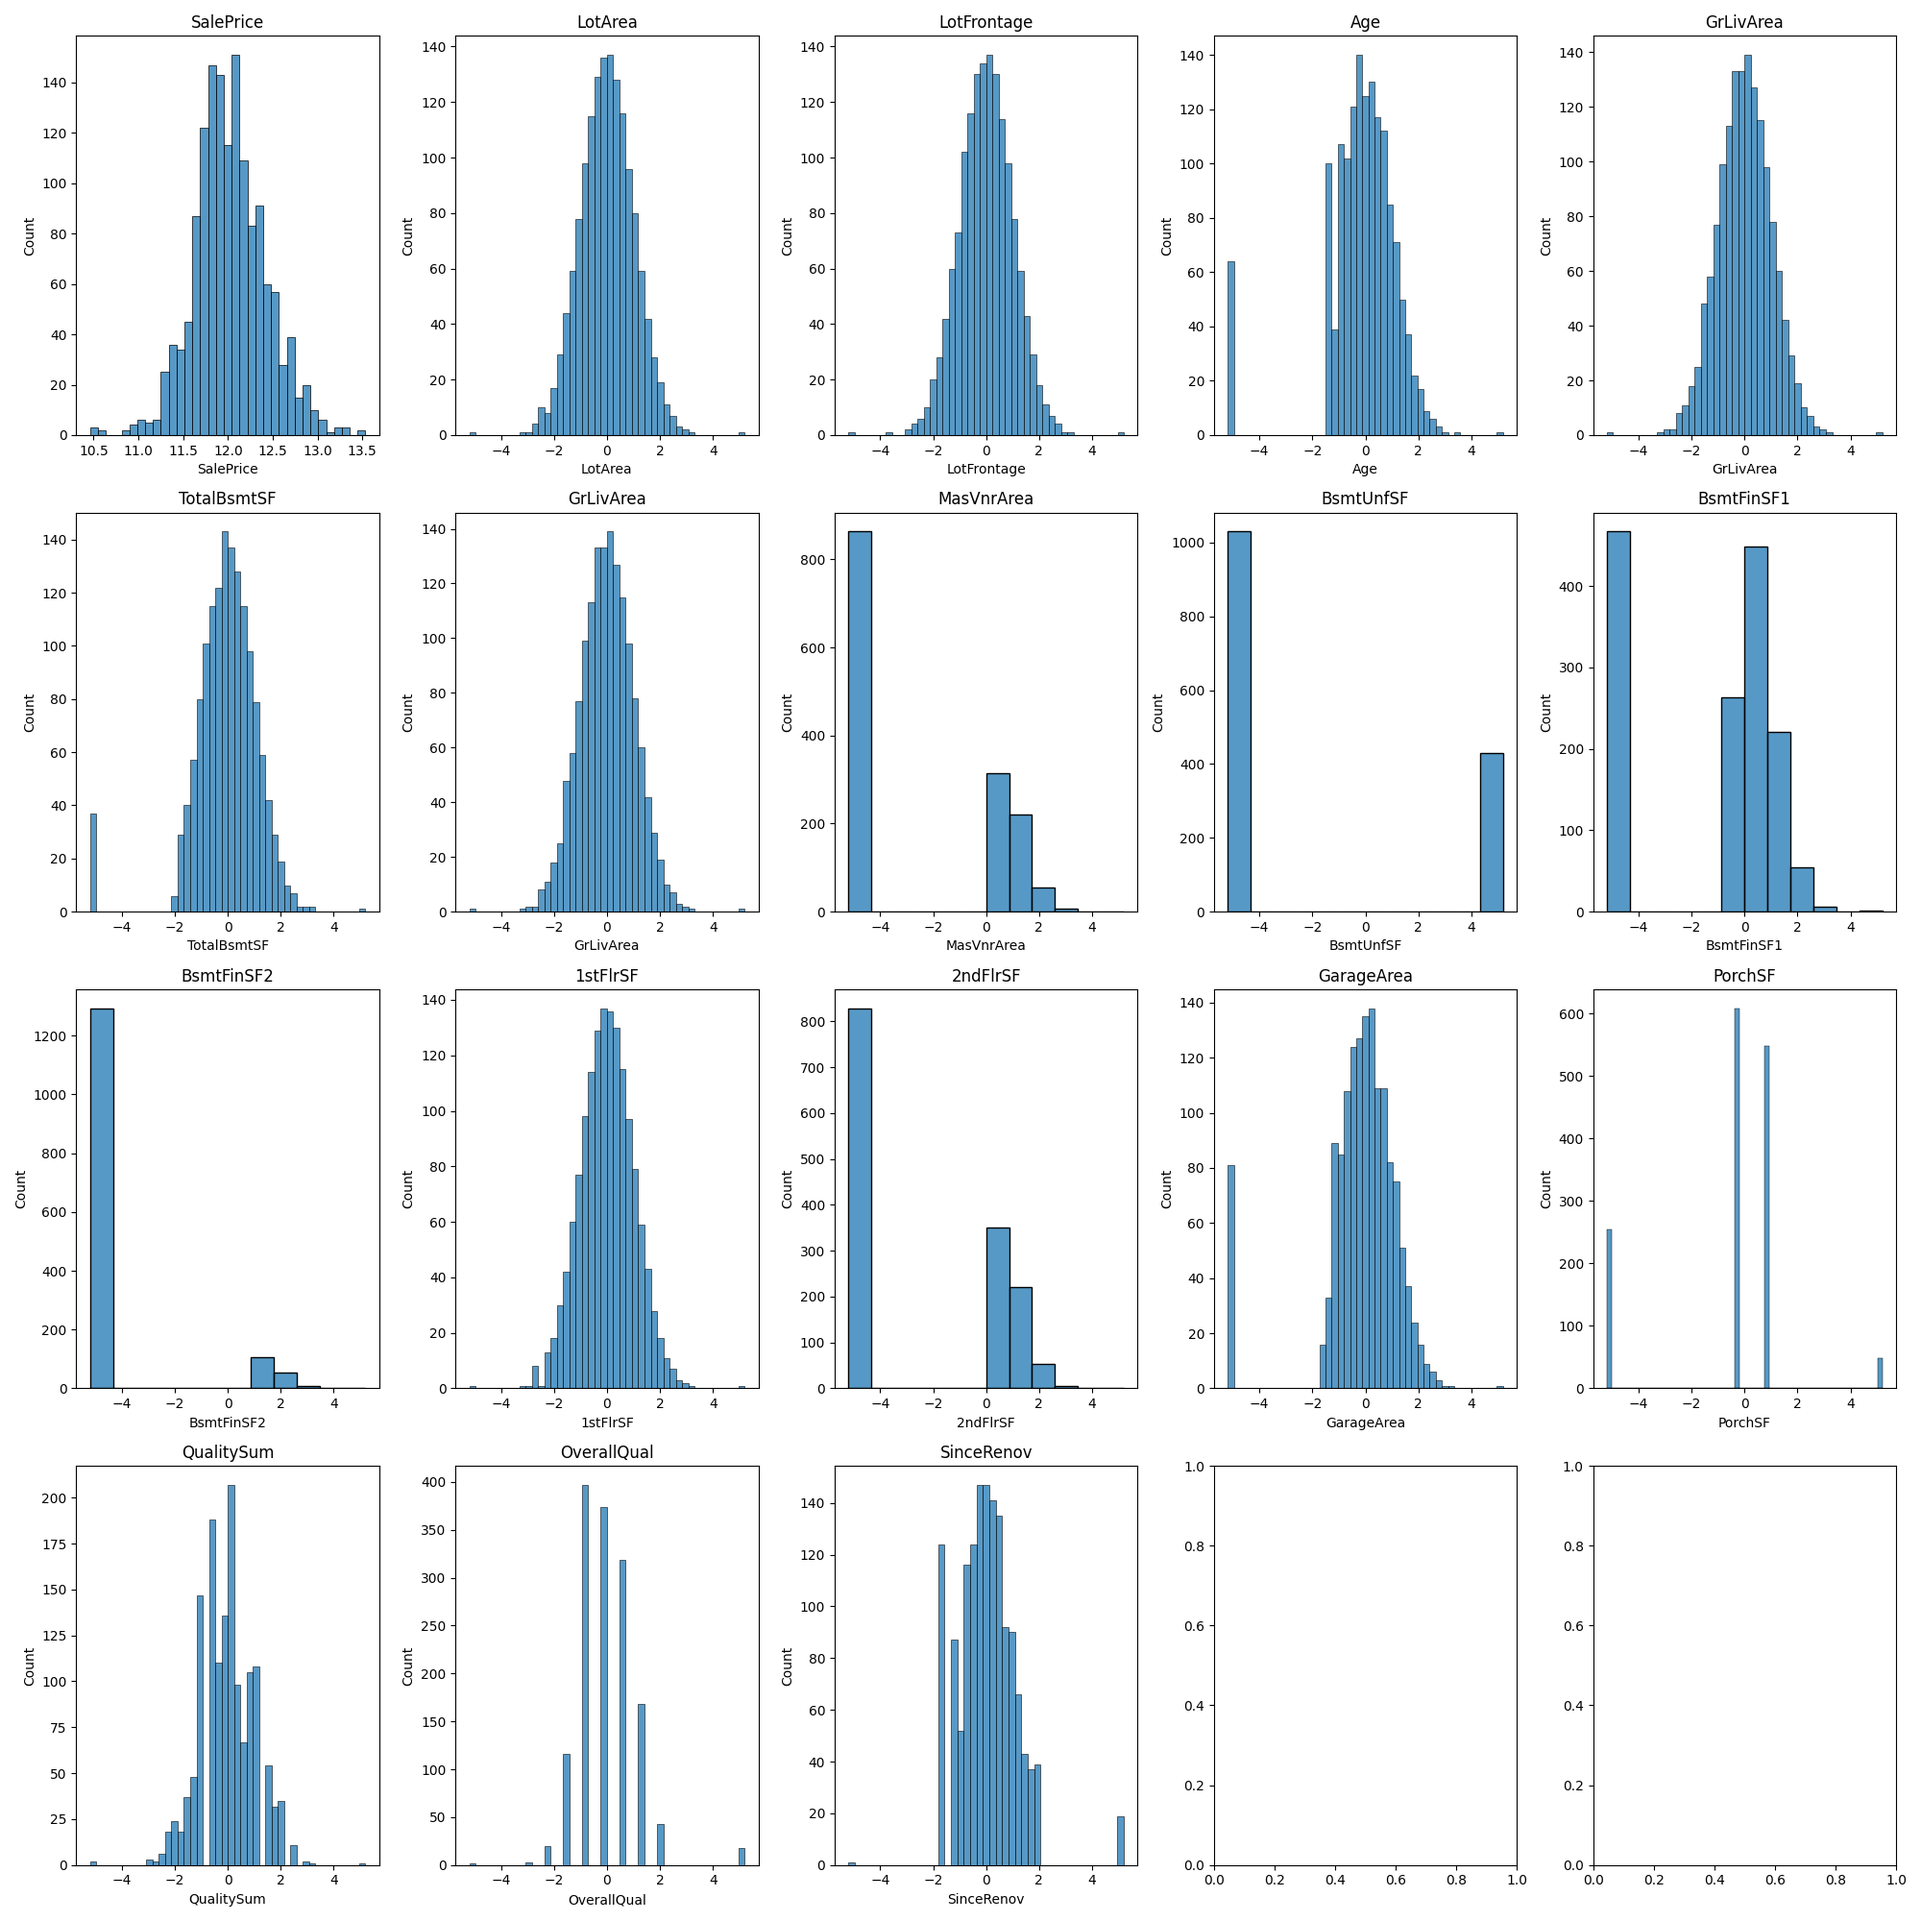
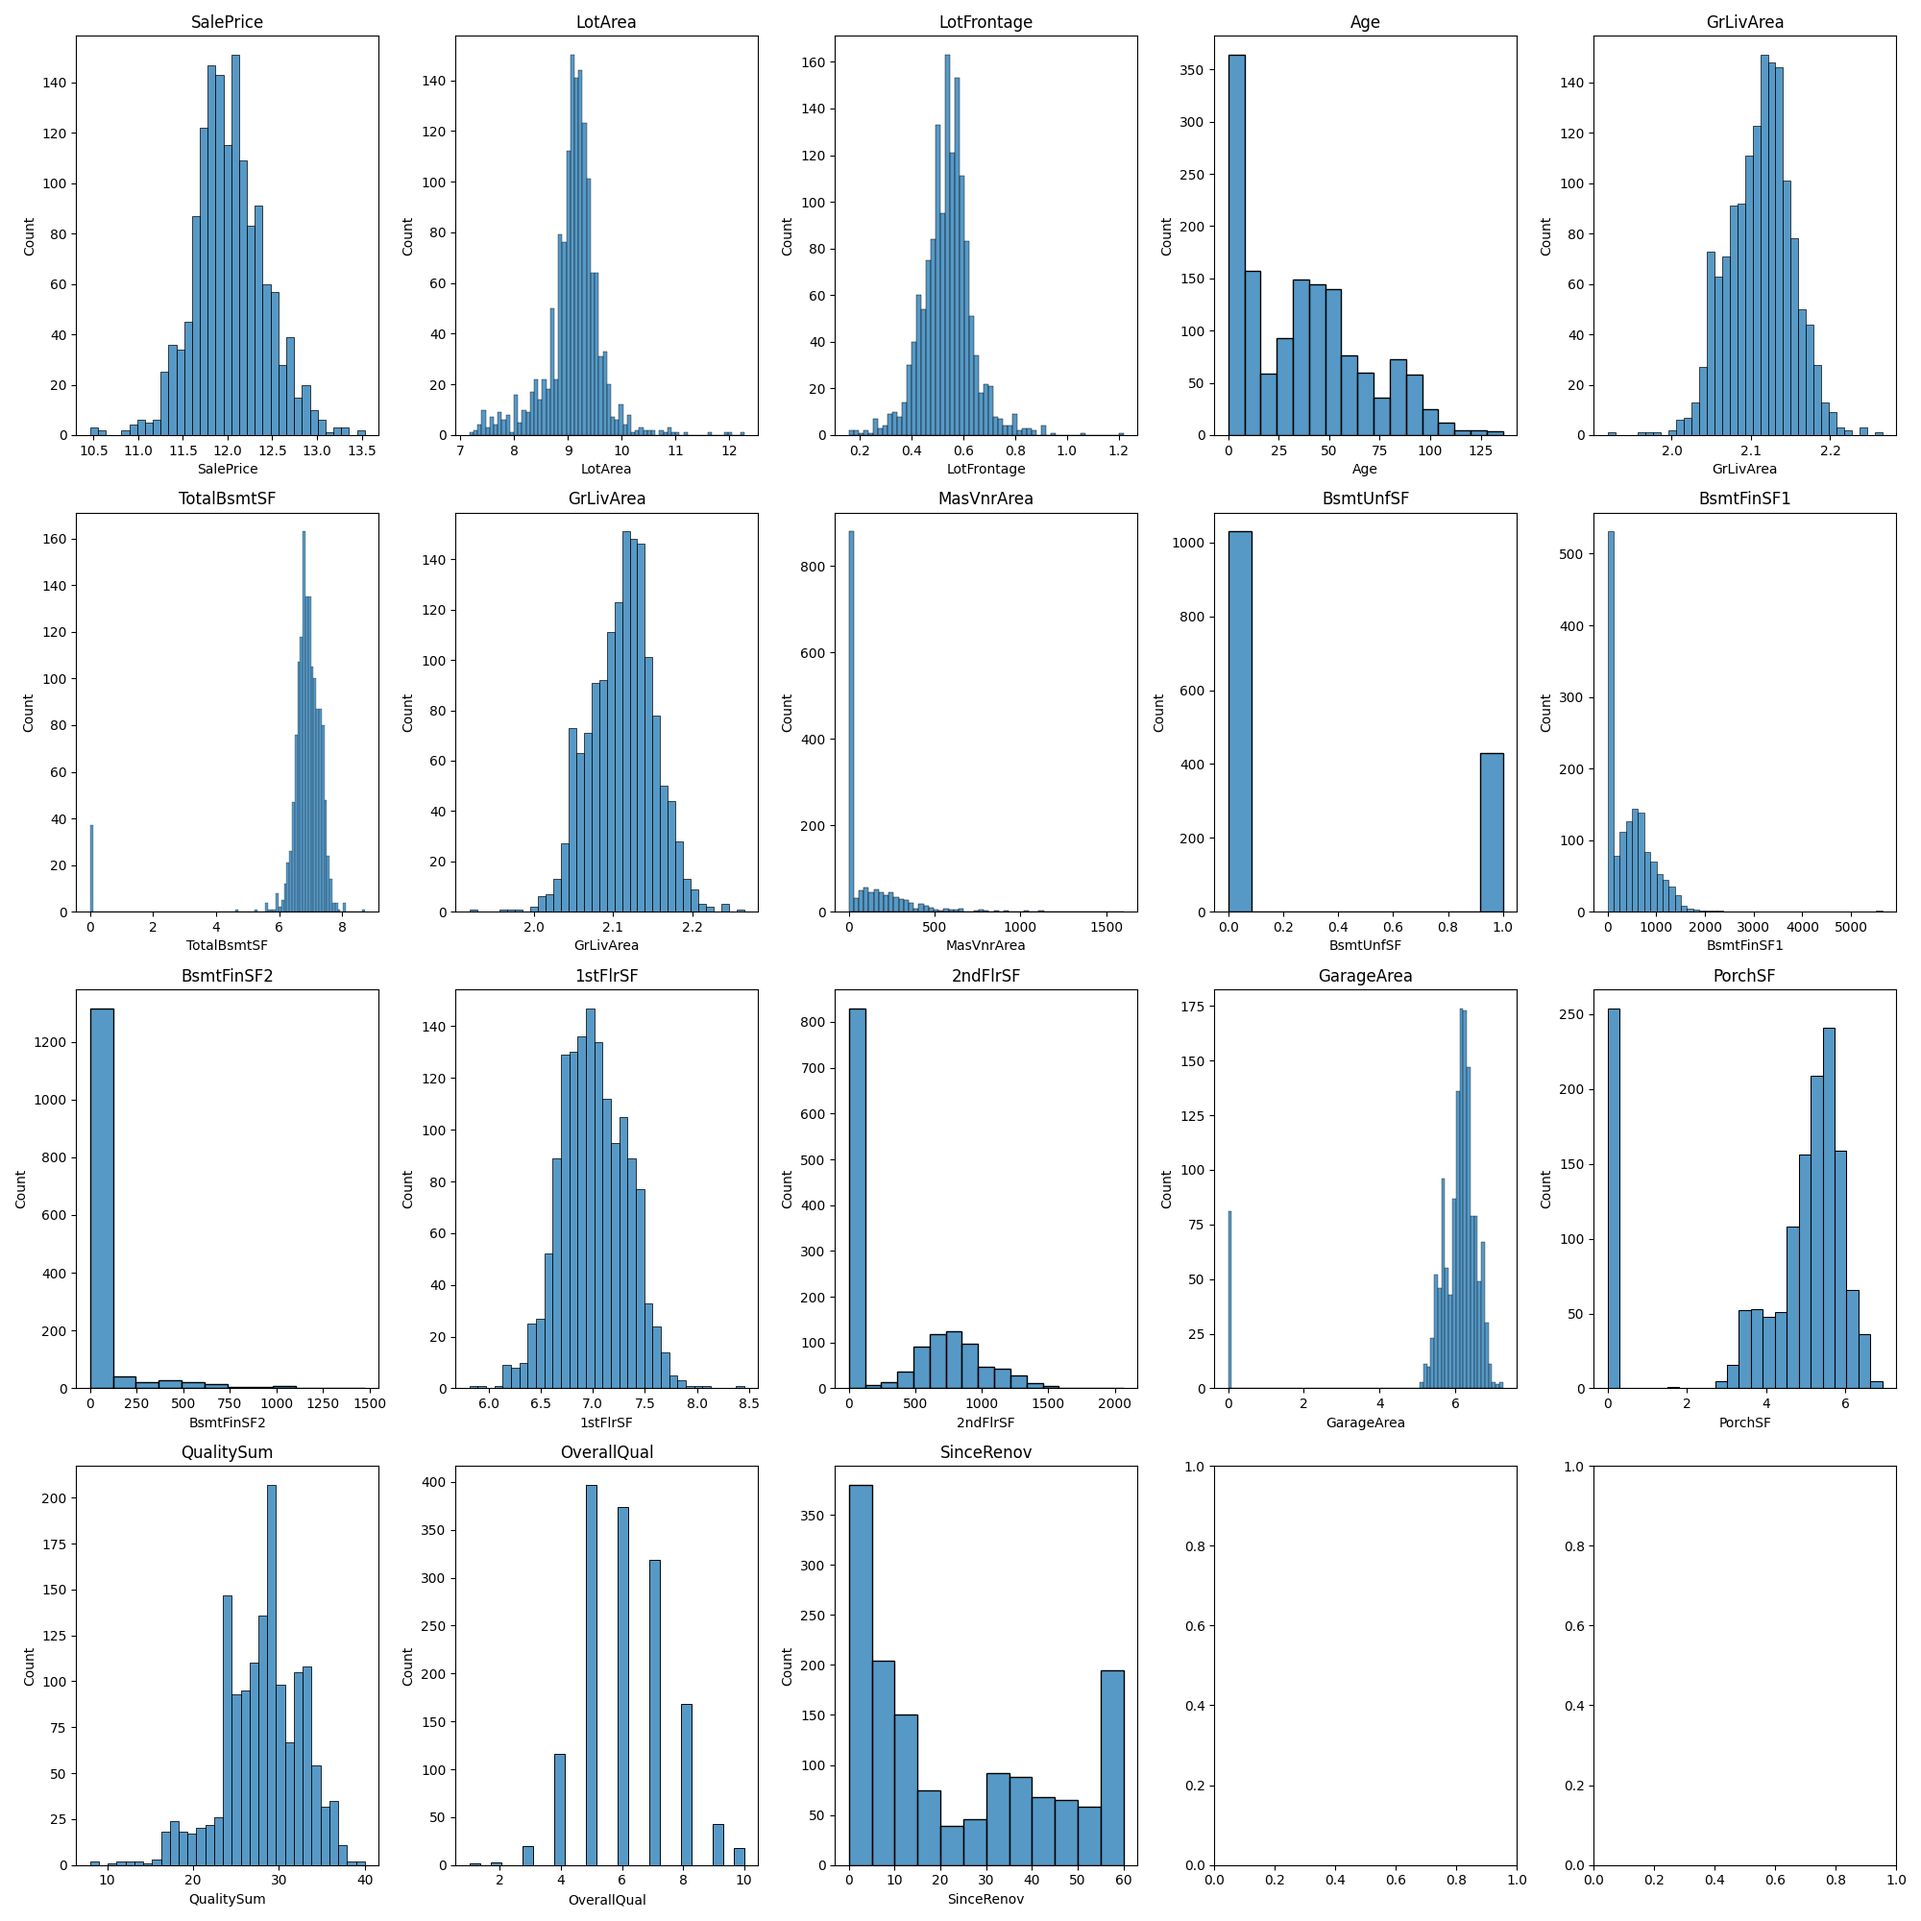
fix features, change transformation to log1p

diff --git a/train.py b/train.py
@@ -67,7 +67,7 @@ print(combine_data.groupby('MasVnrType', as_index=False)['OverallQual'].mean())
 
 
 numeric_list = ['Alley','Street','MiscFeature','Pool','2ndFlr']
-drop_list_columns = ['YearBuilt','1stFlrSF','2ndFlrSF','YearRemodAdd','BsmtFinSF1','Id','BsmtFinSF2']
+drop_list_columns = ['YearBuilt','YearRemodAdd','1stFlrSF','2ndFlrSF','YrSold','MoSold','BsmtFinSF1','BsmtFinSF2', 'Utilities','Id']  ###Year columns engineered, FlrSF combined and discrete variable for 2nd floor, Time sold+Utilities+Id no correlation, BsmtFin engineered
 continuous_list = ['SalePrice','LotArea','LotFrontage','Age','GrLivArea','TotalBsmtSF','GrLivArea','MasVnrArea','BsmtUnfSF','BsmtFinSF1','BsmtFinSF2','1stFlrSF','2ndFlrSF','GarageArea','PorchSF','QualitySum','OverallQual','SinceRenov']
 garage_list = ['GarageType','GarageYrBlt','GarageFinish','GarageQual','GarageCond','GarageArea']
 quality_sum_list =['ExterQual','ExterCond','BsmtQual','BsmtCond','HeatingQC','KitchenQual','FireplaceQu','GarageQual','GarageCond','PoolQC']
@@ -143,11 +143,6 @@ for i in data:
 					i.at[k, 'BsmtHalfBath'] = i.loc[i['TotalBsmtSF'] > 0, 'BsmtHalfBath'].value_counts().idxmax()
 				elif i.at[k, 'TotalBsmtSF'] == 0 and h == 'BsmtHalfBath':
 					i.at[k, 'BsmtHalfBath'] = 0
-		for h in porch_list:
-			if i.at[k, h] > 0:
-				i.at[k, h] = 1
-			else:
-				i.at[k, h] = 0
 		for h in bmst_list:
 			if i.loc[k,'Foundation'] == 'Slab' and not (h == 'BsmtUnfSF' or h == 'BsmtFinSF1'):
 				i.at[k, h] = 'Abs'
@@ -173,15 +168,20 @@ for i in data:
 				i.at[k, 'QualitySum'] += 1
 		if i.at[k, 'TotalBsmtSF'] > 0:
 			i.at[k, 'BsmtUnfSF'] =  i.at[k, 'BsmtUnfSF']/i.at[k, 'TotalBsmtSF']
-		i.at[k, 'SinceRenov'] = i.at[k, 'YrSold'] - i.at[k, 'YearRemodAdd']	
-		i.at[k, 'Age'] = i.at[k, 'YrSold'] - i.at[k, 'YearBuilt']	
+		i.at[k, 'SinceRenov'] = i.at[k, 'YrSold'] - i.at[k, 'YearRemodAdd']
+		if i.at[k, 'SinceRenov'] < 0:
+			i.at[k, 'SinceRenov'] = 0
+		i.at[k, 'Age'] = i.at[k, 'YrSold'] - i.at[k, 'YearBuilt']
+		if i.at[k, 'Age'] < 0:
+			i.at[k, 'Age'] = 0
 		i.at[k, 'PorchSF'] = i.at[k, 'OpenPorchSF'] + i.at[k, 'EnclosedPorch'] + i.at[k, '3SsnPorch'] + i.at[k, 'ScreenPorch'] + i.at[k, 'WoodDeckSF']
+		for h in porch_list:
+			if i.at[k, h] > 0:
+				i.at[k, h] = 1
+			else:
+				i.at[k, h] = 0
 		i.at[k, 'Bath_count'] = i.at[k, 'BsmtFullBath'] + i.at[k, 'FullBath'] + 0.5*i.at[k, 'BsmtHalfBath'] + 0.5*i.at[k, 'HalfBath']
 		i.at[k, 'LotFrontage'] = i.at[k, 'LotFrontage'] / np.sqrt(i.at[k,"LotArea"])
-		if i.at[k, 'WoodDeckSF'] > 0:
-			i.at[k, 'WoodDeck'] = 1
-		else:
-			i.at[k, 'WoodDeck'] = 0
 		if pd.isna(i.at[k, 'MSZoning']): #####fill missing values based on 
 			i.at[k, 'MSZoning'] = 'C (all)'
 			if i.loc[k,'YearBuilt'] > 1938:
@@ -253,14 +253,16 @@ plt.close
 
 ###transform numerical to obtain normal distribution
 quantile = QuantileTransformer(n_quantiles=1000,output_distribution='normal')
+transform_list=['SalePrice','LotArea','LotFrontage','GrLivArea','TotalBsmtSF','GrLivArea','1stFlrSF','GarageArea','PorchSF']
 for i in data:
-	for col in continuous_list:
+	for col in transform_list:
 		if i.name == 'test' and col == 'SalePrice':
 			pass
 		elif i.name == 'train' and col == 'SalePrice':
 			i[col] = np.log1p(i.loc[:,col].values.reshape(-1, 1))
 		else:
-			i[col] = quantile.fit_transform(i.loc[:,col].values.reshape(-1, 1))
+			#i[col] = quantile.fit_transform(i.loc[:,col].values.reshape(-1, 1))
+			i[col] = np.log1p(i.loc[:,col].values.reshape(-1, 1))
 
 f, ax = plt.subplots(4, 5, figsize=(20, 20))
 l=1
@@ -272,18 +274,6 @@ for i in continuous_list:
 f.tight_layout()
 plt.savefig('graphs/hist_num_quantile.png')
 plt.close
-
-# f, ax = plt.subplots(4, 5, figsize=(20, 20))
-# l=1
-# for i in continuous_list:
-# 	ax = plt.subplot(4,5,l)
-# 	sn.boxplot(x=train[i], y=train["SalePrice"])
-# 	#sn.histplot(data=train[i])
-# 	ax.set_title(i)
-# 	l+=1
-# f.tight_layout()
-# plt.savefig('graphs/box_num_quantile.png')
-# plt.close
 
 f, ax = plt.subplots(4, 5, figsize=(20, 20))
 l=1
@@ -304,8 +294,7 @@ for i in data:
 		i.drop(col, axis=1, inplace=True)
 	for col in garage_list:
 		i.drop(col, axis=1, inplace=True)
-	for col in porch_list:
-		i.drop(col, axis=1, inplace=True)
+	i = i.rename({'OpenPorchSF': 'OpenPorch', 'WoodDeckSF': 'WoodDeck'}, axis=1)
 	for col in quality_sum_list:
 		if (col == 'GarageQual' or col == 'GarageCond'):
 			pass
@@ -325,6 +314,7 @@ for i in data:
 # print(*drop_cutoff, sep = '\n')
 
 ###check for high correlation between features, remove worse feature when correlation higher than 0.8
+###PREVENT DUPLICATES IN high_corr!!
 high_corr = []
 drop_corr = []
 for col1 in train.columns:
@@ -352,10 +342,10 @@ print('\nAutomatically removed:')
 print(*drop_corr, sep = '\n')
 
 ###plot new distributions
-f, ax = plt.subplots(8, 8, figsize=(40, 40))
+f, ax = plt.subplots(8, 9, figsize=(40, 40))
 l=1
 for col in train.columns:
-	ax = plt.subplot(8,8,l)
+	ax = plt.subplot(8,9,l)
 	sn.histplot(data=train[col],kde=True)
 	ax.set_title(col)
 	l+=1
@@ -436,6 +426,7 @@ plt.close
 # Y_pred = xg_reg_opt.predict(x_test)
 # print("Accuracy Optimized XGBoost (RMSLE):",np.sqrt(metrics.mean_squared_log_error(np.expm1(y_test), np.expm1(Y_pred))))
 ## Best parameters XGBoost:  {'colsample_bytree': 0.475, 'learning_rate': 0.05, 'max_depth': 40, 'n_estimators': 200}
+## Best parameters XGBoost:  {'booster': 'gbtree', 'colsample_bytree': 0.3, 'learning_rate': 0.05, 'max_depth': 3, 'min_child_weight': 1, 'n_estimators': 1000, 'objective': 'reg:squarederror'}
 
 ####CatBoost
 cb_reg = cbr.CatBoostRegressor(n_estimators = 1000, loss_function = 'MAE', eval_metric = 'MSLE')
